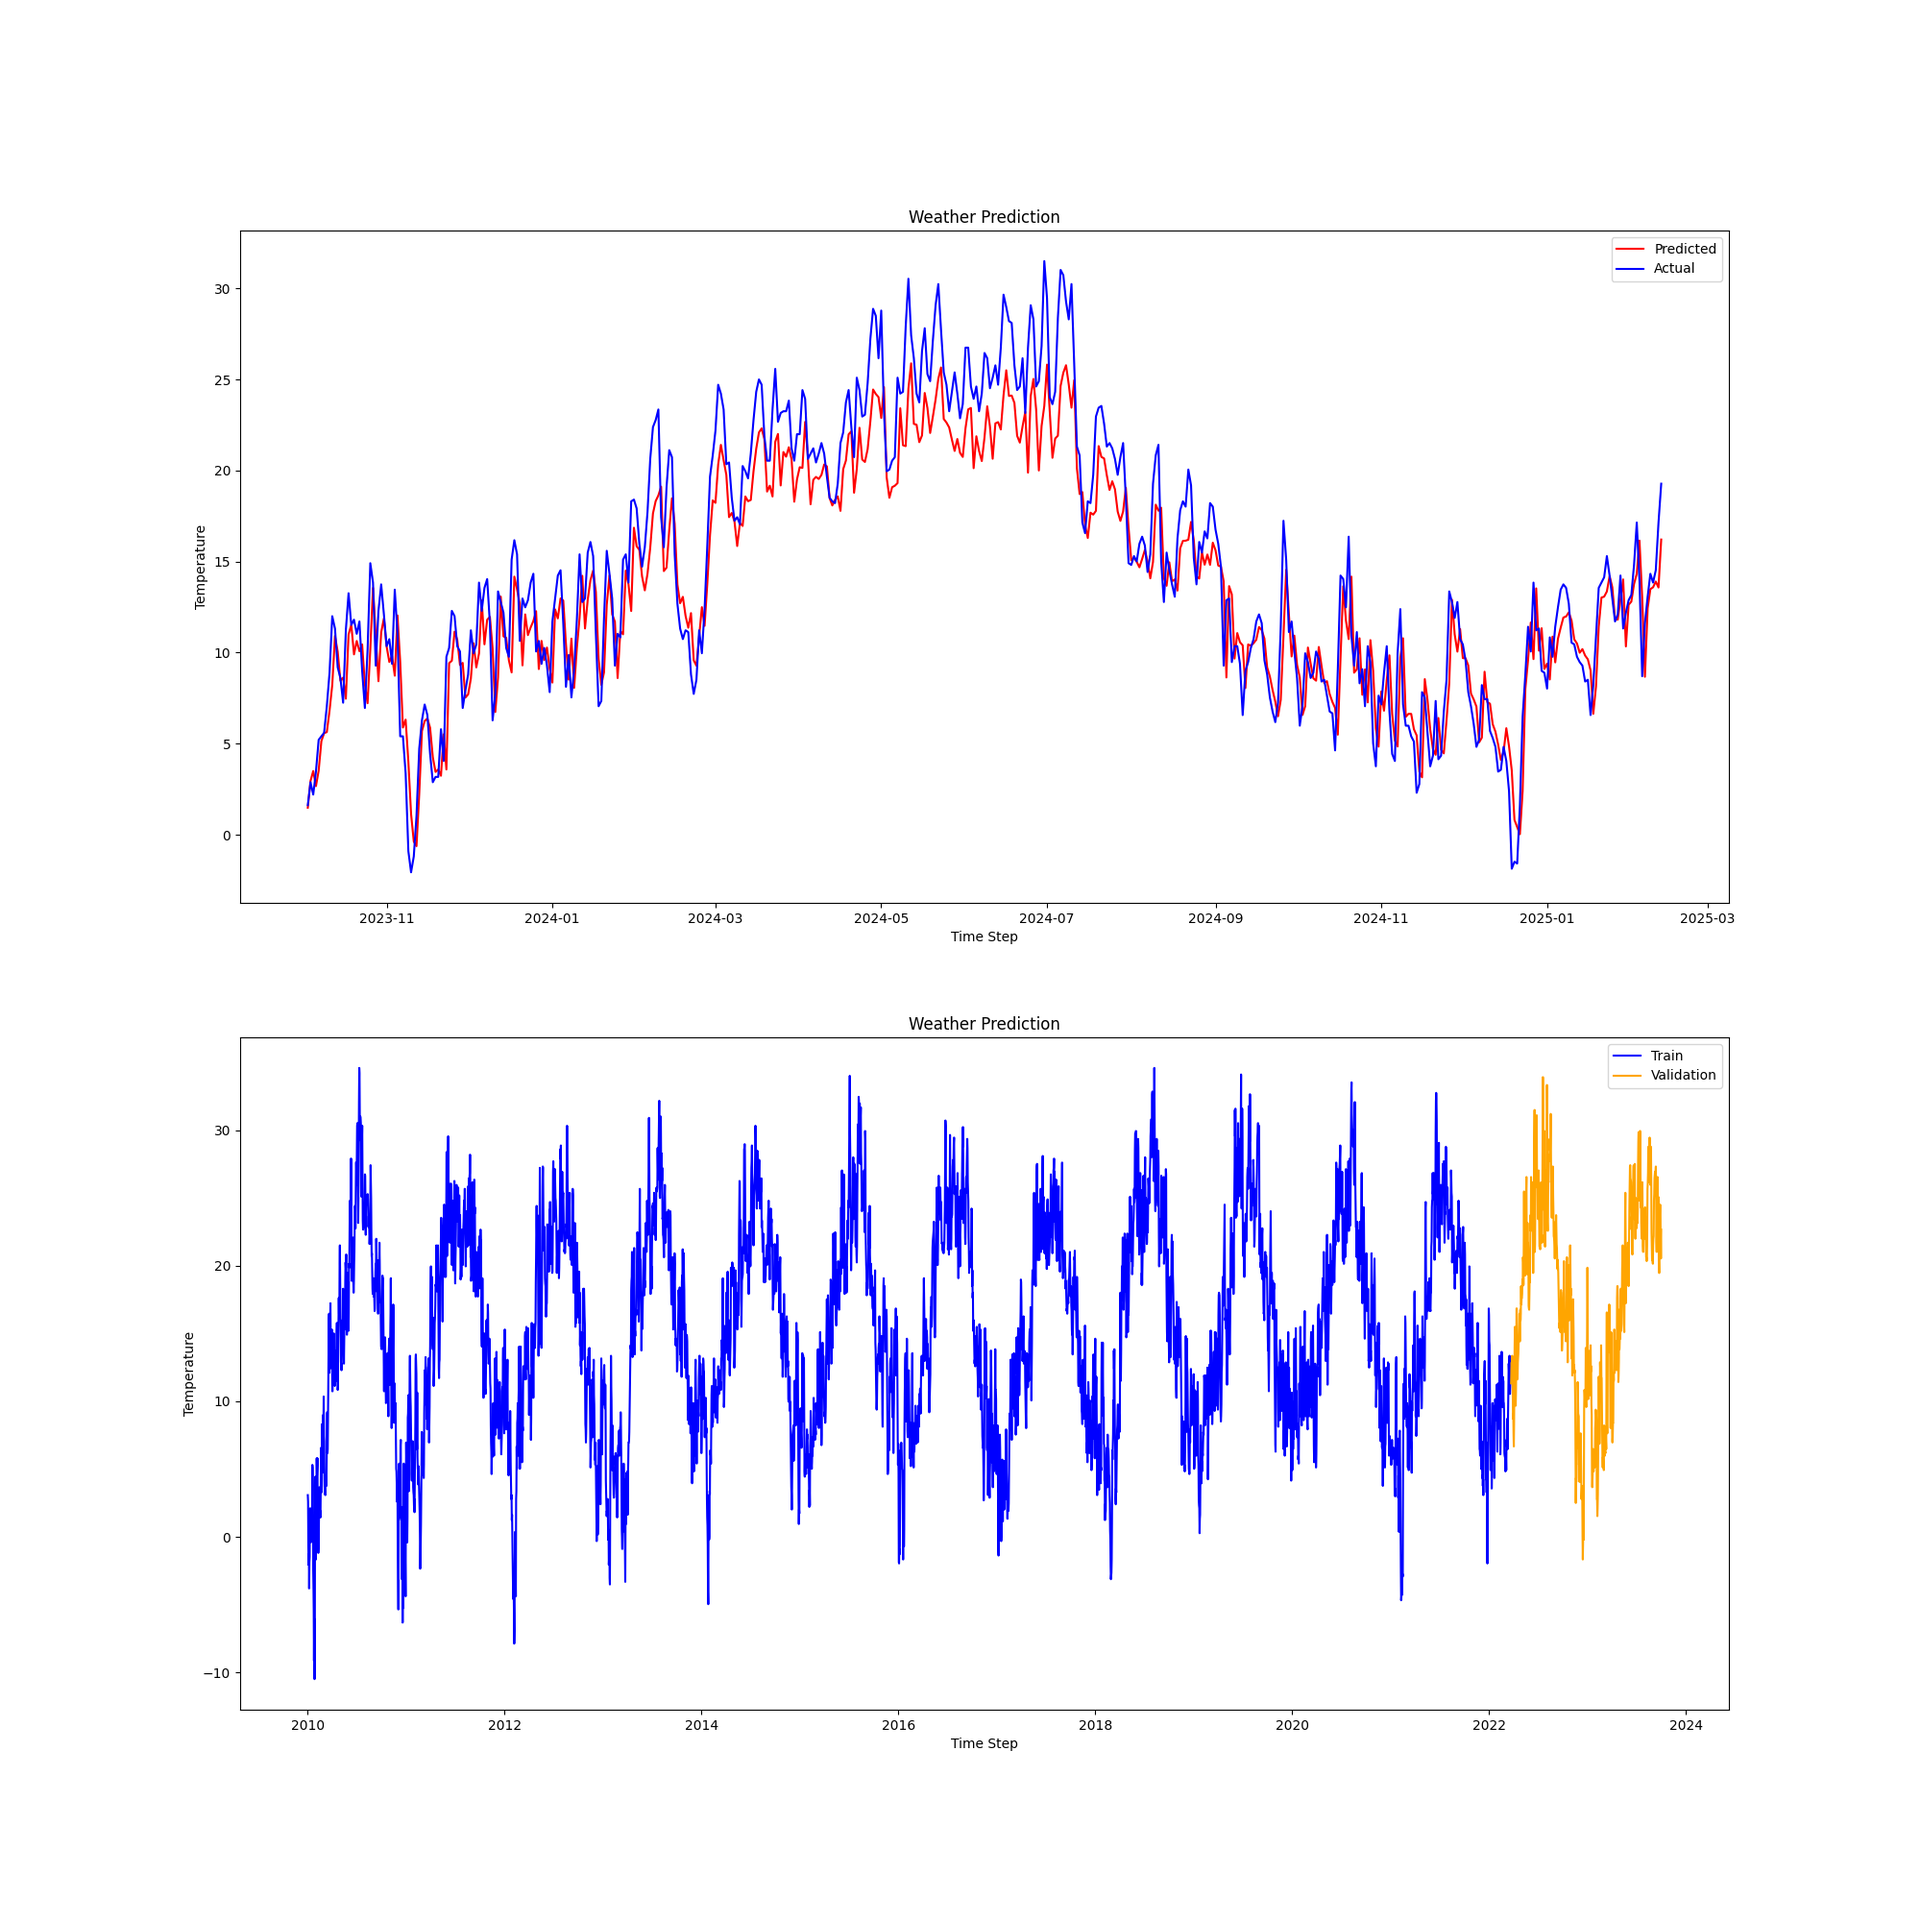
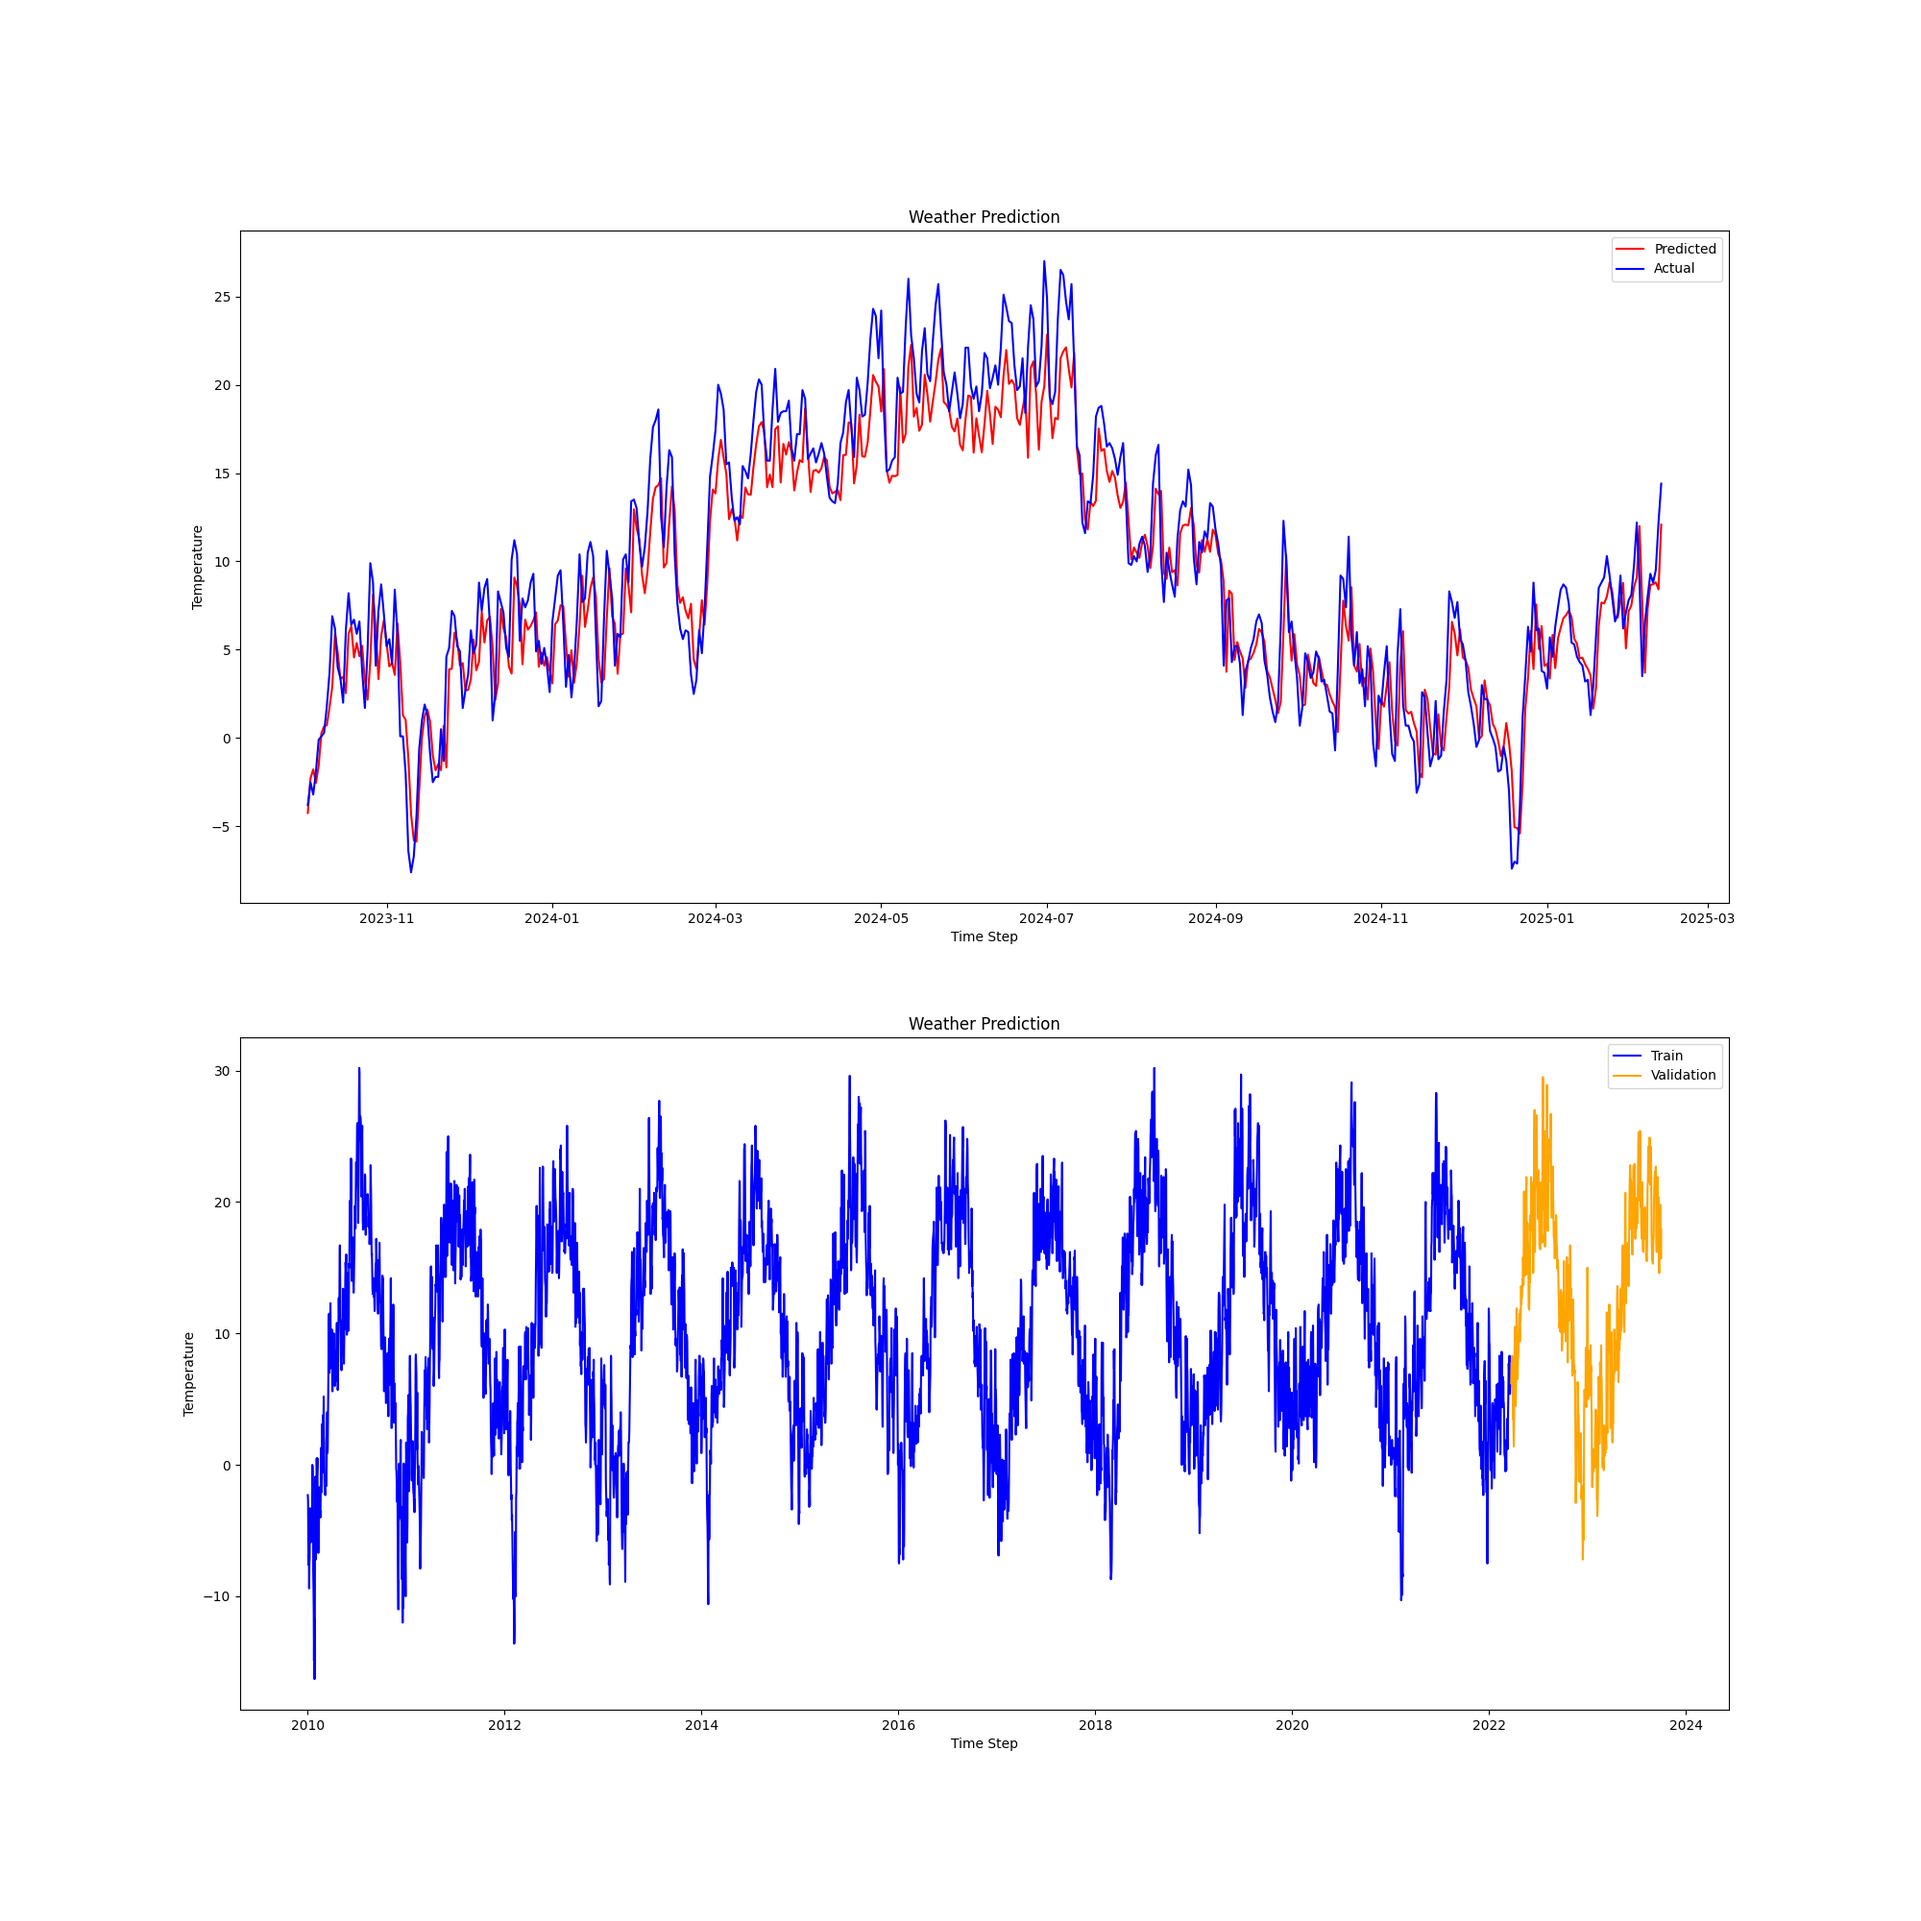
Try training with 150 eporch

diff --git a/src/test.py b/src/test.py
@@ -13,10 +13,10 @@ warnings.filterwarnings("ignore")
 device = setting.device
 print(f"Using device: {device}")
 
-data_train = pd.read_csv(setting.train_daily_rh_path)
-data_val = pd.read_csv(setting.val_daily_rh_path)
-test_data = pd.read_csv(setting.test_daily_rh_path)
-scaler = setting.scaler_rh
+data_train = pd.read_csv(setting.train_daily_temp_path)
+data_val = pd.read_csv(setting.val_daily_temp_path)
+test_data = pd.read_csv(setting.test_daily_temp_path)
+scaler = setting.scaler_temp
 
 train = data_train.copy()
 val = data_val.copy()
@@ -38,7 +38,7 @@ seq_length = setting.seq_length  # Length of the input sequence
 
 model = setting.LSTM_model.to(device)
 
-state_dict = torch.load('./model/weather_lstm_rh.pth', map_location=device)
+state_dict = torch.load('./model/weather_lstm_temp.pth', map_location=device)
 model.load_state_dict(state_dict)
 model.eval()
 
@@ -98,5 +98,5 @@ plt.title('Weather Prediction')
 plt.xlabel('Time Step')
 plt.ylabel('Temperature')
 plt.legend()
-plt.savefig(setting.path_daily_image + 'weather_lstm_rh.png')
+plt.savefig(setting.path_daily_image + 'weather_lstm_temp.png')
 plt.show()

diff --git a/src/train.py b/src/train.py
@@ -13,9 +13,9 @@ import warnings
 
 warnings.filterwarnings("ignore")
 
-scaler = setting.scaler_rh
-train_path = setting.train_daily_rh_path
-val_path = setting.val_daily_rh_path
+scaler = setting.scaler_temp
+train_path = setting.train_daily_temp_path
+val_path = setting.val_daily_temp_path
 path_image = setting.path_daily_image
 
 
@@ -78,7 +78,7 @@ for epoch in range(num_epochs):
     print(f'Epoch [{epoch + 1}/{num_epochs}], Loss: {loss.item():.4f}, Val Loss: {val_loss:.4f}')
  
 # Save the model
-setting.save_model(model, 'weather_lstm_rh.pth')
+setting.save_model(model, 'weather_lstm_temp.pth')
 
 plt.figure(figsize=(12, 6))
 plt.plot(train_loss, label='Train Loss')
@@ -92,5 +92,5 @@ plt.tight_layout()
 
 if not os.path.exists(path_image):
     os.makedirs(path_image)
-plt.savefig(path_image+'loss_plot_rh.png')
+plt.savefig(path_image+'loss_plot_temp.png')
 plt.show() 
